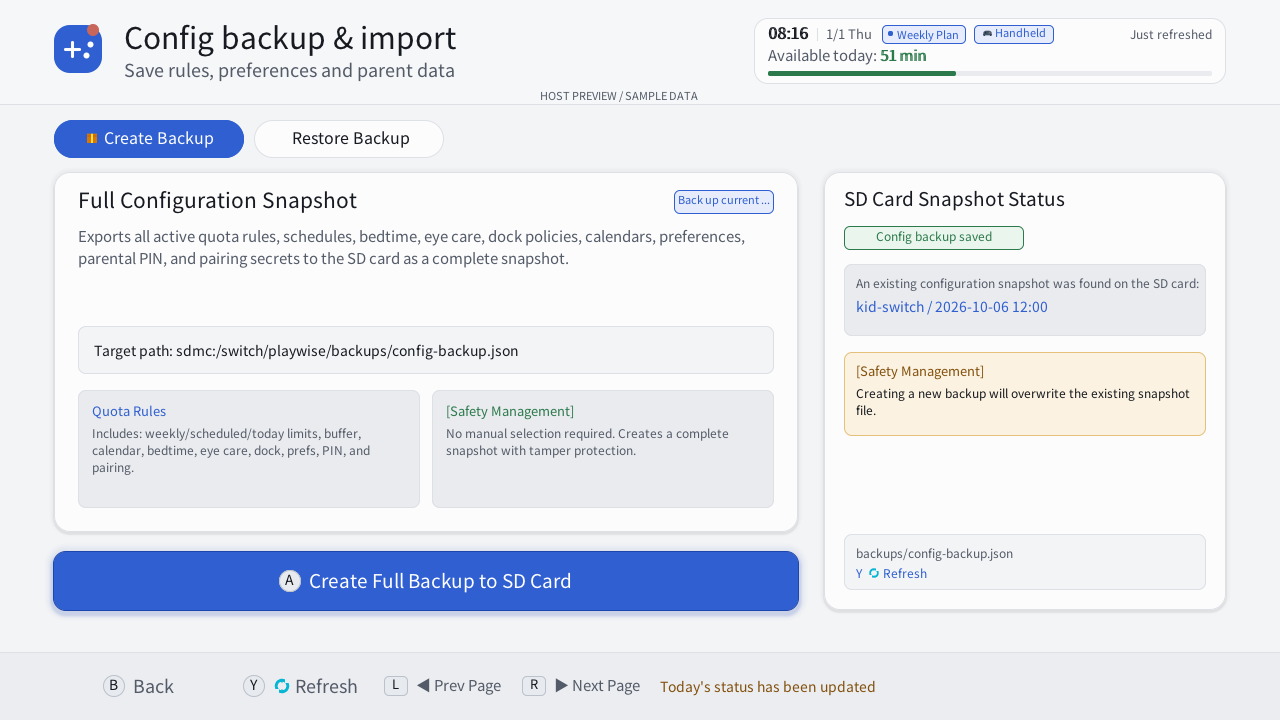
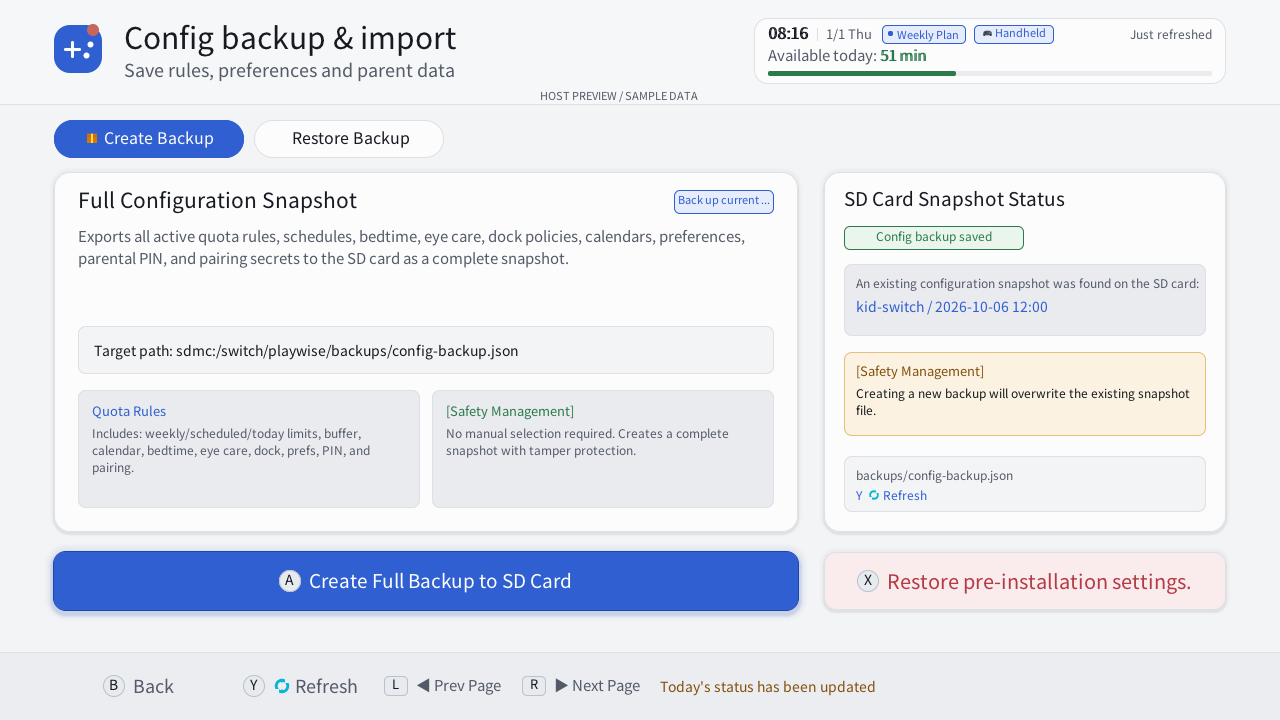
fix(recovery): 补回主机应用安装前设置恢复入口
- 在配置备份创建页提供恢复入口并沿用长按与标准恢复事务
- 阻止快照缺失和恢复中等状态下提交，修正状态卡与按钮重叠
- 修复支持专项设置后导航并补充入口、取消及边界回归
- 同步中英文使用说明、设计规范和预览，准备 3.1.7 发行

Changed region(s): [[0.6562, 0.7333, 0.9375, 0.825], [0.6562, 0.6417, 0.7812, 0.7028]]

diff --git a/tests/devkit/test_eden_runner.py b/tests/devkit/test_eden_runner.py
@@ -13,7 +13,7 @@ sys.path.insert(0, str(ROOT))
 
 from tools.automation.eden_runner import (
     GateError, ObservationPending, McpClient, SCENARIOS, Suite, decode, healthy_exit, healthy_launch,
-    receipt, save, seal, validate_observation, verify, profile_settings, set_profile_timezone,
+    receipt, read, save, seal, validate_observation, verify, profile_settings, set_profile_timezone,
     open_shared_read, read_observation_file,
     scenario_names,
     validate_native_environment,
@@ -242,6 +242,72 @@ def test_main_suite_and_fail_closed() -> None:
         root = Path(directory)
         save(root / "evidence-manifest.json", {"schema_version": 1, "files": [{"path": "../outside"}]})
         rejected(lambda: verify(root))
+
+
+def test_support_seed_enters_parent_after_setup() -> None:
+    from tools.automation.eden_support_flow import SupportFlow
+
+    class SeedFlow(SupportFlow):
+        def __init__(self, root: Path, view: int):
+            self.app = root / "app"
+            self.output = root / "output"
+            self.view = view
+            self.overlay = 0
+            self.authenticated = False
+            self.actions = []
+            self.redeemed = False
+            (self.app / "backups").mkdir(parents=True)
+            (self.app / "activity").mkdir()
+            save(self.app / "backups/install_pctl_snapshot.json", {"version": 1})
+            save(self.app / "rules.json", {"week": []})
+            (self.app / "activity/history.jsonl").write_text("grant\n", encoding="utf-8")
+
+        def wait_ui(self, **expected):
+            assert "view" not in expected or self.view == expected["view"]
+            assert "overlay" not in expected or self.overlay == expected["overlay"]
+
+        def observe(self):
+            return {"ui": {"view": self.view}}
+
+        def pin_open(self):
+            assert self.view == 0
+            self.overlay = 22
+
+        def enter_pin(self, digits):
+            assert self.overlay == 22 and digits == "110"
+            self.authenticated = True
+            self.view, self.overlay = 1, 0
+
+        def refresh(self):
+            assert self.view == 1
+            return {"status": "ok"}
+
+        def action(self, button):
+            assert button == "B" and (self.view == 1 or self.overlay == 13)
+            self.actions.append(button)
+            self.view, self.overlay = 0, 0
+
+        def code_success(self):
+            assert self.view == 0 and self.overlay == 0
+            self.redeemed = True
+            self.overlay = 13
+
+    for view in (0, 1):
+        with tempfile.TemporaryDirectory() as directory:
+            flow = SeedFlow(Path(directory), view)
+            flow.support_seed()
+            assert flow.authenticated is (view == 0)
+            assert flow.redeemed and flow.actions == ["B", "B"]
+            assert read(flow.output / "assertions/support_seed.json")["passed"] is True
+    with tempfile.TemporaryDirectory() as directory:
+        flow = SeedFlow(Path(directory), 2)
+        try:
+            flow.support_seed()
+        except AssertionError:
+            pass
+        else:
+            raise AssertionError("unknown setup view accepted")
+        assert not flow.actions and not flow.redeemed
 
 
 def test_support_suite_evidence_gates() -> None:
@@ -736,6 +802,7 @@ def main() -> None:
     test_report_roundtrip_and_tamper()
     test_main_suite_and_fail_closed()
     test_support_suite_evidence_gates()
+    test_support_seed_enters_parent_after_setup()
     test_post_screenshot_neutral_progress()
     test_observation_stream_partial_tail()
     test_preview_cancel_does_not_exit_child()

diff --git a/companion/nro/nro_overlay_account_input.c b/companion/nro/nro_overlay_account_input.c
@@ -6,6 +6,9 @@ void handle_config_backup_input(UiState *ui, u64 down)
     if (down & HidNpadButton_B) {
         ptc_audio_play(PTC_SE_CANCEL);
         config_backup_action(ui, 15);
+    } else if (down & HidNpadButton_X) {
+        ptc_audio_play(PTC_SE_CONFIRM);
+        config_backup_action(ui, 18);
     } else if (down & HidNpadButton_Y) {
         ptc_audio_play(PTC_SE_CONFIRM);
         open_config_backup(ui);
@@ -22,6 +25,7 @@ void handle_config_backup_input(UiState *ui, u64 down)
         if (ui->model.config_backup_tab == 0) {
             if (sel == 16 || sel == 17) ui->model.overlay_selection = 15;
             else if (sel == 13) ui->model.overlay_selection = 16;
+            else if (sel == 18) ui->model.overlay_selection = 17;
             else if (sel == 15) ui->model.overlay_selection = 13;
             else ui->model.overlay_selection = 13;
         } else {
@@ -47,7 +51,7 @@ void handle_config_backup_input(UiState *ui, u64 down)
         ptc_audio_play(PTC_SE_FOCUS);
         if (ui->model.config_backup_tab == 0) {
             if (sel == 16 || sel == 17) ui->model.overlay_selection = 13;
-            else if (sel == 13) ui->model.overlay_selection = 15;
+            else if (sel == 13 || sel == 18) ui->model.overlay_selection = 15;
             else if (sel == 15) ui->model.overlay_selection = 16;
             else ui->model.overlay_selection = 13;
         } else {
@@ -72,6 +76,7 @@ void handle_config_backup_input(UiState *ui, u64 down)
     } else if (down & HidNpadButton_Left) {
         ptc_audio_play(PTC_SE_FOCUS);
         if (sel == 17) ui->model.overlay_selection = 16;
+        else if (sel == 18 && ui->model.config_backup_tab == 0) ui->model.overlay_selection = 13;
         else if (ui->model.config_backup_tab == 1) {
             if (sel == 1) ui->model.overlay_selection = 0;
             else if (sel == 3) ui->model.overlay_selection = 2;
@@ -84,6 +89,7 @@ void handle_config_backup_input(UiState *ui, u64 down)
     } else if (down & HidNpadButton_Right) {
         ptc_audio_play(PTC_SE_FOCUS);
         if (sel == 16) ui->model.overlay_selection = 17;
+        else if (sel == 13 && ui->model.config_backup_tab == 0) ui->model.overlay_selection = 18;
         else if (ui->model.config_backup_tab == 1) {
             if (sel == 0) ui->model.overlay_selection = 1;
             else if (sel == 2) ui->model.overlay_selection = 3;

diff --git a/companion/nro/ui_render_overlays.c b/companion/nro/ui_render_overlays.c
@@ -104,7 +104,7 @@ static void draw_config_backup(uint32_t *pixels, uint32_t stride, const PtcUiMod
         draw_button_label(pixels, stride, btn_create, create_label, 19, create_disabled ? UI_DISABLED : UI_ON_ACCENT);
 
         /* 右侧快照状态卡片 (Right Side Info Card, X=824, Y=172, W=402, H=438) */
-        UiRect info = {824, 172, 402, 438};
+        UiRect info = to_uirect(ptc_ui_config_backup_group_rect(3));
         draw_plan_card(pixels, stride, info, false);
         draw_text(pixels, stride, info.x + 20, info.y + 34, ptc_ui_text(PTC_UI_T_CONFIG_BACKUP_SD_STATUS_TITLE), 19, UI_INK);
         if (model->config_backup_ready) {
@@ -138,6 +138,12 @@ static void draw_config_backup(uint32_t *pixels, uint32_t stride, const PtcUiMod
         draw_rect_outline(pixels, stride, hint_box, 8, 1, UI_BORDER);
         draw_text(pixels, stride, hint_box.x + 12, hint_box.y + 24, "backups/config-backup.json", 12, UI_MUTED);
         draw_text(pixels, stride, hint_box.x + 12, hint_box.y + 44, ptc_ui_text(PTC_UI_T_Y_REFRESH), 12, UI_ACCENT);
+        bool restore_enabled = model->setup_snapshot_available && !model->parent_support_only &&
+            !model->waiting && !model->recovery_active && model->hot_reload_status != PTC_UI_HOT_RELOAD_RUNNING;
+        char restore_label[160];
+        snprintf(restore_label, sizeof(restore_label), "X  %s", ptc_ui_text(PTC_UI_T_RESTORE_PRE_INSTALLATION_SETTINGS));
+        draw_candidate_button(pixels, stride, ptc_ui_config_backup_field_rect(18), restore_label,
+            UI_DANGER_SOFT, UI_DANGER, model->overlay_selection == 18, !restore_enabled);
     } else {
         /* ======================== Tab 1: 从备份恢复 ======================== */
         /* 备份标识放在胶囊标签右侧的同一行：Y=120..158 已被标签占用，原先

diff --git a/tests/nro_setup/test.c b/tests/nro_setup/test.c
@@ -566,6 +566,23 @@ static void test_config_backup_ui(void)
     open_config_backup(&ui);
     check(ui.model.config_backup_tab == 0 && ui.model.overlay_selection == 13,
           "backup entry defaults to create tab and create action");
+    config_backup_action(&ui,18);
+    check(ui.model.overlay == PTC_UI_OVERLAY_CONFIG_BACKUP && !ui.waiting,
+          "installation restore with no snapshot creates no confirmation or request");
+    ui.model.setup_snapshot_available = true;
+    config_backup_action(&ui,18);
+    check(ui.model.overlay == PTC_UI_OVERLAY_CONFIRM &&
+          ui.model.operation == PTC_UI_OPERATION_RESTORE_INSTALL_SNAPSHOT && ui.model.confirm_hold_required,
+          "installation restore opens the existing held confirmation");
+    ptc_ui_cancel_overlay(&ui.model);
+    check(ui.model.overlay == PTC_UI_OVERLAY_CONFIG_BACKUP && !ui.waiting,
+          "cancel installation restore returns to backup without submission");
+    ui.model.recovery_active = true;
+    config_backup_action(&ui,18);
+    check(ui.model.overlay == PTC_UI_OVERLAY_CONFIG_BACKUP && !ui.waiting,
+          "active recovery blocks installation restore action");
+    ui.model.recovery_active = false;
+    ui.model.overlay_selection = 13;
     check(ui.model.config_backup_ready && ui.model.config_groups == 507 && !ui.model.config_today_available,"ordinary defaults exclude expired today and security");
     config_backup_action(&ui,2); check(ui.model.config_groups == 507,"expired today cannot toggle");
     config_backup_action(&ui,11); check(ui.model.config_groups == 2043,"all selects available groups");

diff --git a/tools/automation/eden_support_flow.py b/tools/automation/eden_support_flow.py
@@ -107,6 +107,7 @@ class SupportFlow(MainFlow):
         return result
 
     def support_seed(self) -> None:
+        self.parent()
         before = self.refresh()
         save(self.output / "support-before/status.json", before)
         shutil.copy2(self.app / "backups/install_pctl_snapshot.json",
@@ -173,7 +174,11 @@ class SupportFlow(MainFlow):
         self.reenter_support()
         before = self.ids()
         self.action(target="card_3")
+        self.wait_ui(overlay=44)
+        self.action(button="X")
         self.wait_ui(overlay=3)
+        self.action(button="B")
+        self.wait_ui(overlay=44, disable_flag_present=True)
         self.action(button="B")
         self.wait_ui(overlay=0, disable_flag_present=True)
         require(read(self.app / "setup.json")["phase"] != "restored", "cancel restored installation")
@@ -181,6 +186,8 @@ class SupportFlow(MainFlow):
                         for path in (self.app / "results").glob("*.json") if path.stem not in before),
                 "cancel submitted installation restore")
         self.action(target="card_3")
+        self.wait_ui(overlay=44)
+        self.action(button="X")
         self.submitted("restore_install_snapshot", before)
         result = self.archive_status("restored", disable_flag_present=True, recovery_active=False, setup_active=False)
         verify_restored_status(result, read(self.output / "support-before/status.json"))

diff --git a/companion/nro/nro_config_backup.c b/companion/nro/nro_config_backup.c
@@ -153,6 +153,19 @@ void request_config_restore(UiState *ui)
 void config_backup_action(UiState *ui, int index)
 {
     if (!ui || ui->waiting) return;
+    if (index == 18) {
+        if (ui->model.config_backup_tab != 0 || !ui->model.setup_snapshot_available ||
+            ui->model.parent_support_only || ui->model.recovery_active ||
+            ui->model.hot_reload_status == PTC_UI_HOT_RELOAD_RUNNING) {
+            snprintf(ui->model.message, sizeof(ui->model.message), "%s",
+                     ptc_ui_text(PTC_UI_T_CURRENT_STATUS_IS_NOT_AVAILABLE));
+            return;
+        }
+        open_danger_confirm_overlay(ui, PTC_UI_OPERATION_RESTORE_INSTALL_SNAPSHOT,
+            ptc_ui_text(PTC_UI_T_RESTORE_ORIGINAL_STATE),
+            ptc_ui_text(PTC_UI_T_RESTORES_ORIGINAL_PARENTAL_CONTROL_SETTINGS_AND_TIMERS));
+        return;
+    }
     if (index == 16) {
         ui->model.config_backup_tab = 0;
         if (ui->model.overlay_selection != 15 && ui->model.overlay_selection != 16 && ui->model.overlay_selection != 17) {

diff --git a/companion/nro/ui_layout.c b/companion/nro/ui_layout.c
@@ -1469,6 +1469,7 @@ PtcUiRect ptc_ui_config_backup_field_rect(int index)
 {
     if (index == 16) return (PtcUiRect){54, 120, 190, 38};
     if (index == 17) return (PtcUiRect){254, 120, 190, 38};
+    if (index == 18) return (PtcUiRect){824, 552, 402, 58};
     if (index >= 0 && index < 4) return (PtcUiRect){70 + (index % 2) * 364, 210 + (index / 2) * 44, 348, 38};
     if (index >= 4 && index < 9) return (PtcUiRect){70 + ((index - 4) % 2) * 364, 354 + ((index - 4) / 2) * 44, 348, 38};
     if (index == 9 || index == 10) return (PtcUiRect){70 + (index - 9) * 364, 542, 348, 38};
@@ -1484,6 +1485,7 @@ PtcUiRect ptc_ui_config_backup_group_rect(int group)
     if (group == 0) return (PtcUiRect){54, 172, 744, 132};
     if (group == 1) return (PtcUiRect){54, 316, 744, 176};
     if (group == 2) return (PtcUiRect){54, 504, 744, 88};
+    if (group == 3) return (PtcUiRect){824, 172, 402, 360};
     return (PtcUiRect){0, 0, 0, 0};
 }
 

diff --git a/companion/nro/ui_hit_test.c b/companion/nro/ui_hit_test.c
@@ -81,11 +81,11 @@ static PtcUiHit hit_test_overlay(const PtcUiModel *model, int x, int y)
             ? make_hit(PTC_UI_HIT_OVERLAY_CANCEL, 0) : make_hit(PTC_UI_HIT_NONE, 0);
     }
     if (model->overlay == PTC_UI_OVERLAY_CONFIG_BACKUP) {
-        for (int i = 0; i < 18; ++i) {
+        for (int i = 0; i < 19; ++i) {
             if (model->config_backup_tab == 0) {
-                if (i != 16 && i != 17 && i != 13 && i != 15) continue;
+                if (i != 16 && i != 17 && i != 13 && i != 15 && i != 18) continue;
             } else {
-                if (i == 13) continue;
+                if (i == 13 || i == 18) continue;
             }
             if (ptc_ui_rect_contains(ptc_ui_config_backup_field_rect(i), x, y))
                 return make_hit(PTC_UI_HIT_CONFIG_BACKUP_FIELD, i);

diff --git a/tests/ui_preview/render.c b/tests/ui_preview/render.c
@@ -2059,6 +2059,7 @@ static int render_config_backup_previews(const char *directory, const PtcUiModel
         model.overlay = PTC_UI_OVERLAY_CONFIG_BACKUP;
         model.config_backup_tab = 0; model.overlay_selection = 13;
         model.config_backup_ready = true;
+        model.setup_snapshot_available = true;
         snprintf(model.config_metadata, sizeof(model.config_metadata), "kid-switch / 2026-10-06 12:00");
         failed |= save_preview(directory, "settings", "config-backup-create", &model, dark);
         model.config_backup_tab = 1; model.overlay_selection = 14;

diff --git a/tests/c/test_ui_state.c b/tests/c/test_ui_state.c
@@ -4234,7 +4234,9 @@ static void test_config_backup_layout(void)
         }
     }
     model.config_backup_tab = 0;
-    int tab0_indices[] = {13, 15, 16, 17};
+    check_true(!rects_overlap(ptc_ui_config_backup_group_rect(3), ptc_ui_config_backup_field_rect(18)),
+        "installation restore button stays outside the snapshot status card");
+    int tab0_indices[] = {13, 15, 16, 17, 18};
     int n_tab0 = sizeof(tab0_indices) / sizeof(tab0_indices[0]);
     for (int idx = 0; idx < n_tab0; ++idx) {
         int i = tab0_indices[idx];

diff --git a/companion/nro/eden_observe.h b/companion/nro/eden_observe.h
@@ -276,7 +276,7 @@ static inline bool ptc_eden_format_ui(const PtcUiModel *m, char *out, size_t siz
         snprintf(key, sizeof(key), "week_%d", i);
         if (!ptc_eden_target(out, size, &used, key, ptc_ui_weekly_day_minutes_rect(i))) goto fail;
     }
-    for (int i = 0; i < 18; ++i) {
+    for (int i = 0; i < 19; ++i) {
         char key[24];
         snprintf(key, sizeof(key), "backup_%d", i);
         if (!ptc_eden_target(out, size, &used, key, ptc_ui_config_backup_field_rect(i))) goto fail;

diff --git a/common/version.h b/common/version.h
@@ -1,7 +1,7 @@
 #ifndef PLAYWISE_VERSION_H
 #define PLAYWISE_VERSION_H
 
-#define PLAYWISE_VERSION "3.1.8-alpha"
+#define PLAYWISE_VERSION "3.1.7"
 #define PLAYWISE_REPOSITORY_URL "https://github.com/selfuppen/NX-PlayWise"
 #define PLAYWISE_RELEASE_TITLE_ID "4200000000BD2300"
 #define PLAYWISE_RELEASE_IPC_SERVICE "pctc:u"
